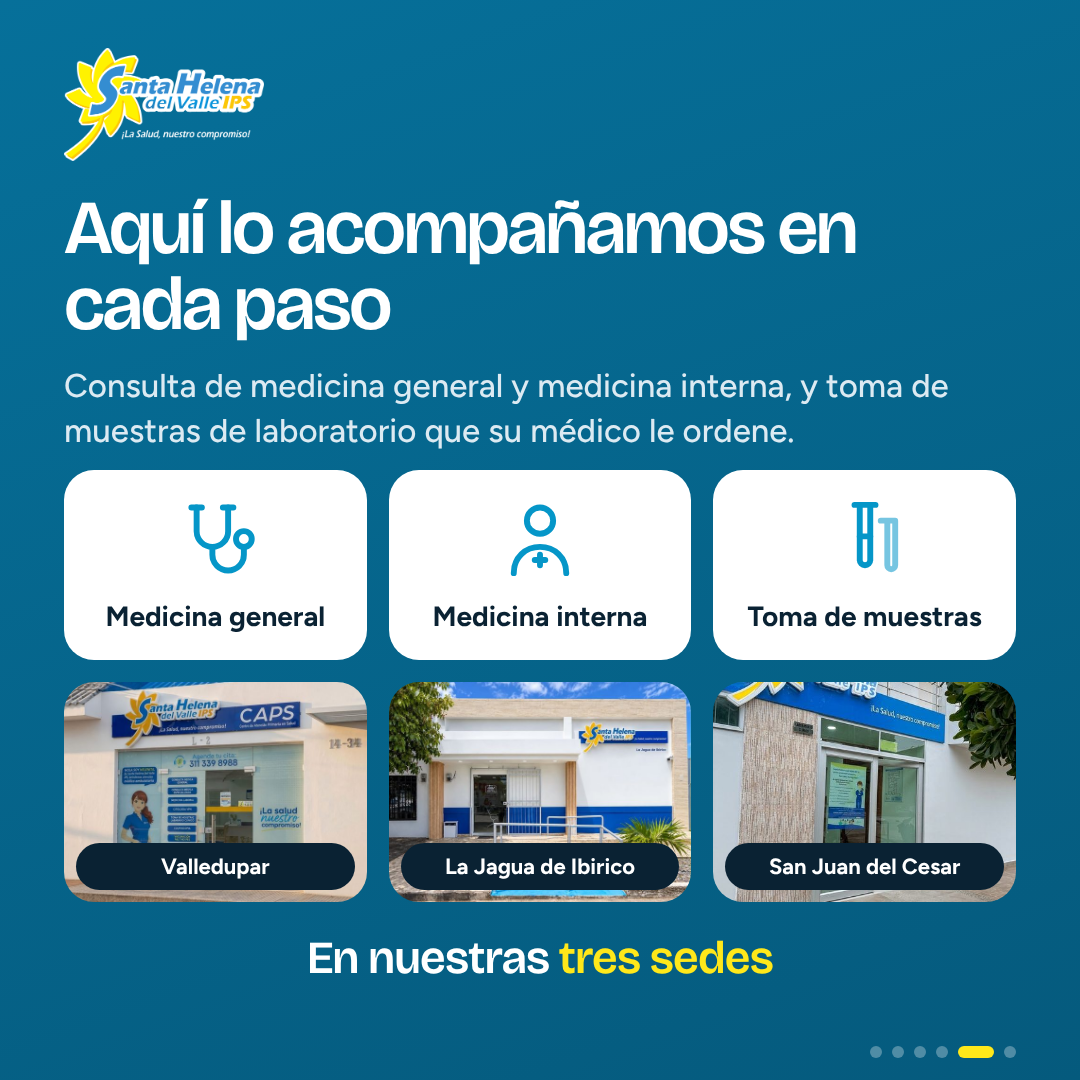
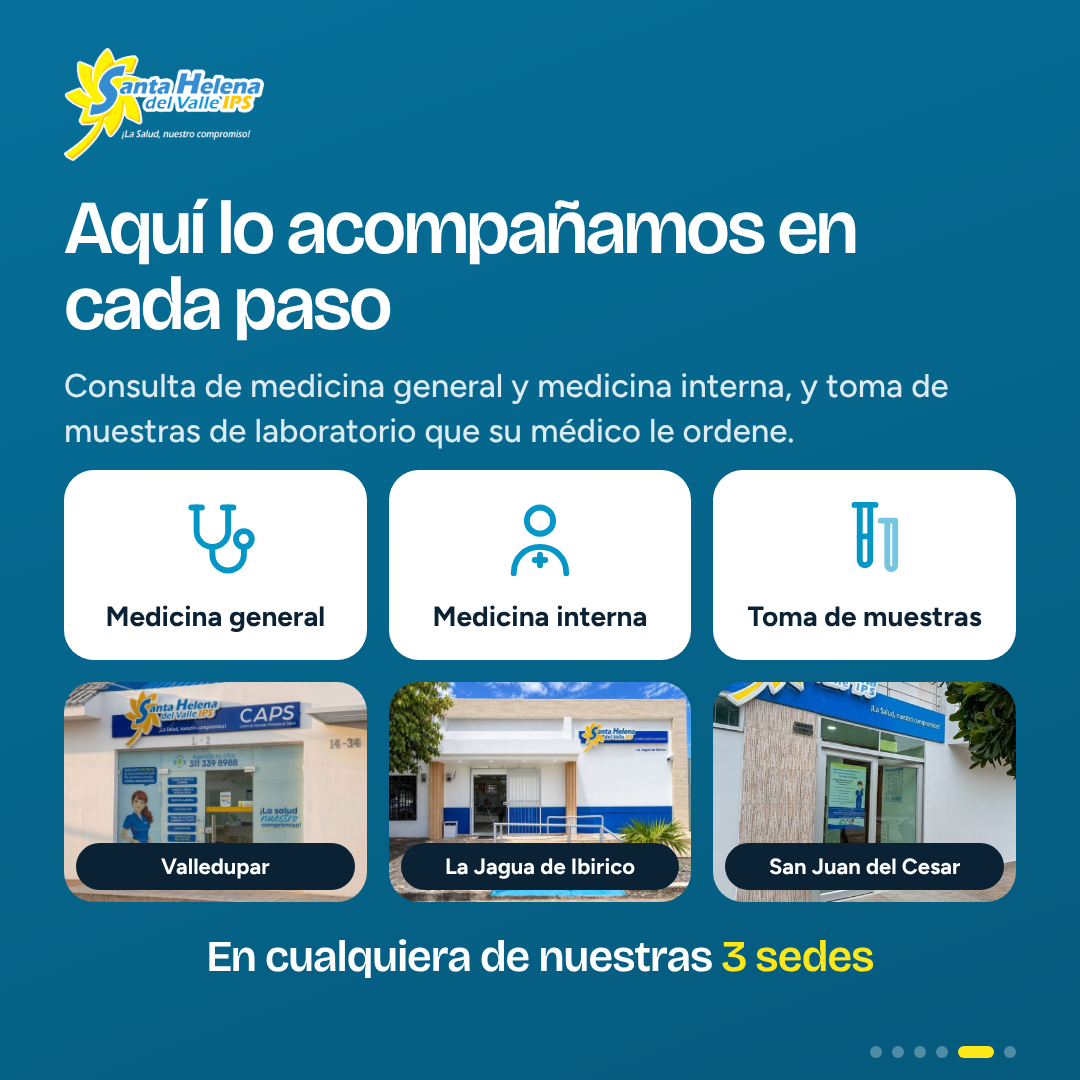
Carrusel Noviembre Azul: lámina 5 dice «En cualquiera de nuestras 3 sedes»
Claude-Session: https://claude.ai/code/session_01KgBCaN2Nb7mn6jAyyriR7q

Changed region(s): [[0.1833, 0.8556, 0.825, 0.9167]]

diff --git a/entregas/creativo-instagram/2026-10-30-carrusel-noviembre-azul/fuente/carrusel.html b/entregas/creativo-instagram/2026-10-30-carrusel-noviembre-azul/fuente/carrusel.html
@@ -153,7 +153,7 @@ h2{font-size:76px}
     <div class="sede"><img src="img/la-jagua.jpg"><span>La Jagua de Ibirico</span></div>
     <div class="sede"><img src="img/san-juan.jpg"><span>San Juan del Cesar</span></div>
   </div>
-  <p style="position:absolute;left:64px;right:64px;top:930px;text-align:center;font-family:'Bricolage Grotesque';font-weight:600;font-size:46px;letter-spacing:-.02em;color:#fff">En nuestras <span style="color:var(--amarillo)">tres sedes</span></p>
+  <p style="position:absolute;left:64px;right:64px;top:930px;text-align:center;font-family:'Bricolage Grotesque';font-weight:600;font-size:44px;letter-spacing:-.02em;color:#fff">En cualquiera de nuestras <span style="color:var(--amarillo)">3 sedes</span></p>
   <style>
     .serv{background:#fff;border-radius:30px;height:190px;display:flex;flex-direction:column;align-items:center;justify-content:center;gap:18px;color:var(--navy);font-size:28px;font-weight:700}
     .serv svg{width:84px;height:84px;fill:none;stroke:var(--azul);stroke-width:4.5;stroke-linecap:round;stroke-linejoin:round}

diff --git a/entregas/creativo-instagram/2026-10-30-carrusel-noviembre-azul/LEAME.md b/entregas/creativo-instagram/2026-10-30-carrusel-noviembre-azul/LEAME.md
@@ -11,7 +11,7 @@ Notas de diseño
 - Helenita: se usaron cuadros de sus animaciones ya hechas (saludar, hablar, pensar, señalar, pulgar),
   porque los PNG de `marca/img/helenita/` son todos la misma pose quieta. Sin costo de créditos.
 - Versión 2 (correcciones del dueño): lámina 3 con «50 años» grande en amarillo; lámina 4 con Helenita señalando la mitad
-  de la lista y la nota centrada debajo; lámina 5 con «En nuestras tres sedes» abajo, centrado y más grande;
+  de la lista y la nota centrada debajo; lámina 5 con «En cualquiera de nuestras 3 sedes» abajo, centrado y más grande;
   textos mejor alineados en todas.
 - Lámina 5 usa las fotos reales de las tres sedes.
 - Amarillo solo en el botón de WhatsApp, la palabra «WhatsApp» y los puntos de avance.
